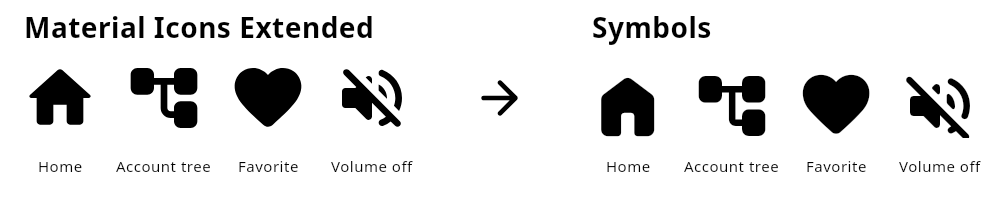
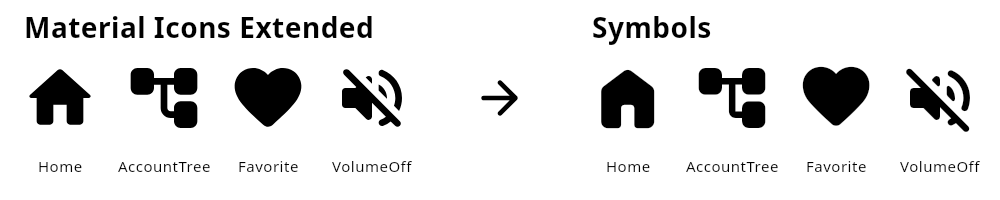
Prevent clipped demo glyphs and synchronize axis sequences

diff --git a/tools/readme-media/src/main/kotlin/ReadmeMedia.kt b/tools/readme-media/src/main/kotlin/ReadmeMedia.kt
@@ -47,12 +47,14 @@ private const val Height = 200
 private const val FrameNanos = 16_666_667L
 private const val SettledHoldFrames = 90 // 1.5 seconds after the spring finishes, at 60 Hz.
 
-private data class Example(val name: String, val legacy: ImageVector, val codePoint: Int)
+private data class Example(val legacy: ImageVector, val codePoint: Int) {
+    val name: String get() = legacy.name.substringAfterLast('.')
+}
 private val Examples = listOf(
-    Example("Home", LegacyIcons.Rounded.Home, Symbols.Material.Home.codePoint),
-    Example("Account tree", LegacyIcons.Rounded.AccountTree, Symbols.Material.AccountTree.codePoint),
-    Example("Favorite", LegacyIcons.Rounded.Favorite, Symbols.Material.Favorite.codePoint),
-    Example("Volume off", LegacyIcons.Rounded.VolumeOff, Symbols.Material.VolumeOff.codePoint),
+    Example(LegacyIcons.Rounded.Home, Symbols.Material.Home.codePoint),
+    Example(LegacyIcons.Rounded.AccountTree, Symbols.Material.AccountTree.codePoint),
+    Example(LegacyIcons.Rounded.Favorite, Symbols.Material.Favorite.codePoint),
+    Example(LegacyIcons.Rounded.VolumeOff, Symbols.Material.VolumeOff.codePoint),
 )
 
 private data class Axes(
@@ -63,8 +65,9 @@ private data class Axes(
 )
 
 private val AxisSegments = listOf(
-    Axes(weight = 700f),
     Axes(weight = 100f),
+    Axes(),
+    Axes(weight = 700f),
     Axes(),
     Axes(opticalSize = 20f),
     Axes(),
@@ -75,14 +78,20 @@ private val AxisSegments = listOf(
     Axes(grade = 200f),
     Axes(),
 )
-private val ComparisonStates = listOf(Axes(fill = 1f)) +
-    AxisSegments.map { it.copy(fill = 1f) } + listOf(Axes()) +
-    AxisSegments + listOf(Axes(fill = 1f))
+private val ComparisonStates = buildList {
+    var fill = 1f
+    add(Axes(fill = fill))
+    for (axes in AxisSegments) {
+        add(axes.copy(fill = fill))
+        fill = 1f - fill
+        add(axes.copy(fill = fill))
+    }
+}
 private val VariableStates = listOf(
     Axes(),
-    Axes(fill = 1f, weight = 700f, grade = 200f, opticalSize = 48f),
-    Axes(),
     Axes(fill = 1f, weight = 100f, grade = -50f, opticalSize = 20f),
+    Axes(),
+    Axes(fill = 1f, weight = 700f, grade = 200f, opticalSize = 48f),
     Axes(),
 )
 
@@ -117,12 +126,19 @@ private fun CenteredLabel(text: String, x: Int, y: Int, width: Int, size: Int, b
 }
 
 @Composable
-private fun Glyph(codePoint: Int, x: Int, y: Int, size: Int, axes: List<State<Float>>, onlyAxis: Int? = null) {
+private fun Glyph(
+    codePoint: Int, x: Int, y: Int, size: Int, axes: List<State<Float>>,
+    onlyAxis: Int? = null, extraDrawingSpace: Int = 0,
+) {
+    // The pinned font's line height is 1.2 em. Give it a 1.25 em drawing box,
+    // centered on the same slot, while keeping the requested font size unchanged.
+    val padding = size / 8 + extraDrawingSpace
     SymbolFontIcon(
         codePoint = codePoint,
         font = Font,
         contentDescription = null,
-        modifier = Modifier.offset(x.dp, y.dp),
+        modifier = Modifier.offset((x - padding).dp, (y - padding).dp)
+            .size((size + padding * 2).dp),
         size = size.dp,
         tint = Color.Black,
         fontSettings = {
@@ -138,7 +154,7 @@ private fun Glyph(codePoint: Int, x: Int, y: Int, size: Int, axes: List<State<Fl
 }
 
 @Composable
-private fun Comparison(target: Axes, finishedListener: (Float) -> Unit) {
+private fun Comparison(target: Axes, extraDrawingSpace: Int = 0, finishedListener: (Float) -> Unit) {
     val axes = animatedAxes(target, finishedListener)
     Box(Modifier.size(Width.dp, Height.dp).background(Color.White)) {
         Label("Material Icons Extended", 24, 8, 28, bold = true)
@@ -146,7 +162,7 @@ private fun Comparison(target: Axes, finishedListener: (Float) -> Unit) {
         Icon(Icons.Rounded.ArrowForward, null, Modifier.offset(472.dp, 70.dp).size(56.dp), tint = Color.Black)
         Examples.forEachIndexed { i, icon ->
             Icon(icon.legacy, null, Modifier.offset((20 + i * 104).dp, 58.dp).size(80.dp), tint = Color.Black)
-            Glyph(icon.codePoint, 588 + i * 104, 58, 80, axes)
+            Glyph(icon.codePoint, 588 + i * 104, 58, 80, axes, extraDrawingSpace = extraDrawingSpace)
             listOf(10, 578).forEach { start ->
                 CenteredLabel(icon.name, start + i * 104, 150, 100, 15)
             }
@@ -155,7 +171,7 @@ private fun Comparison(target: Axes, finishedListener: (Float) -> Unit) {
 }
 
 @Composable
-private fun VariableFonts(target: Axes) {
+private fun VariableFonts(target: Axes, extraDrawingSpace: Int = 0) {
     val axes = animatedAxes(target)
     Box(Modifier.size(Width.dp, Height.dp).background(Color.White)) {
         val labels = listOf("Fill", "Weight", "Grade", "Optical size")
@@ -164,7 +180,7 @@ private fun VariableFonts(target: Axes) {
         for (i in 0..3) {
             val x = i * 250
             CenteredLabel(labels[i], x, 4, 250, 24, bold = true)
-            Glyph(codepoints[i].codePoint, x + 73, 44, 104, axes, onlyAxis = i)
+            Glyph(codepoints[i].codePoint, x + 73, 44, 104, axes, onlyAxis = i, extraDrawingSpace = extraDrawingSpace)
             CenteredLabel(ranges[i], x, 160, 250, 18)
         }
     }
@@ -206,17 +222,40 @@ private suspend fun capture(name: String, comparison: Boolean) {
             if (comparison) Comparison(target.value) { animationFinished = true } else VariableFonts(target.value)
         }
     }
+    // Same released renderer and font size, with a roomier layout to reveal internal clipping.
+    val reference = ImageComposeScene(Width, Height, coroutineContext = Dispatchers.Unconfined) {
+        MaterialExpressiveTheme {
+            if (comparison) Comparison(target.value, extraDrawingSpace = 20) {}
+            else VariableFonts(target.value, extraDrawingSpace = 20)
+        }
+    }
     var time = 0L
+    var referencePng = byteArrayOf()
+    var verifyClipping = false
     fun frame(): ByteArray {
         Snapshot.sendApplyNotifications()
-        return scene.render(time).use { it.png() }.also { time += FrameNanos }
+        val png = scene.render(time).use { it.png() }
+        referencePng = reference.render(time).use { it.png() }
+        if (verifyClipping && !png.contentEquals(referencePng)) {
+            val failure = File("build/clipping-check").apply { mkdirs() }
+            File(failure, "$name-clipped.png").writeBytes(png)
+            File(failure, "$name-unclipped-reference.png").writeBytes(referencePng)
+            error("Glyph rendering differs with additional drawing space at $time ns ($name)")
+        }
+        time += FrameNanos
+        return png
     }
     try {
         // Font loading is asynchronous. Never record an empty first frame or guess a sleep time.
         withTimeout(20_000) {
-            while (!glyphsReady(frame(), comparison)) delay(5)
+            while (true) {
+                val png = frame()
+                if (glyphsReady(png, comparison) && glyphsReady(referencePng, comparison)) break
+                delay(5)
+            }
         }
         repeat(5) { frame() }
+        verifyClipping = true
         check(states.last() == initial)
         var frameCount = 0
         fun recordFrame() {
@@ -246,14 +285,17 @@ private suspend fun capture(name: String, comparison: Boolean) {
         }
         File(output, "states.csv").writeText(timeline.joinToString("\n"))
         println("Captured $name: ${frameCount / 2} frames, ${frameCount / 60.0} seconds, 30 fps")
+        println("Verified all $frameCount frames against the unclipped reference")
     } finally {
         scene.close()
+        reference.close()
     }
 }
 
 fun main() = runBlocking {
     // Compile-check the migration-first README call against the released vector artifact too.
     check(Icons.Rounded.Home.viewportWidth > 0)
+    check(Examples.map { it.name } == listOf("Home", "AccountTree", "Favorite", "VolumeOff"))
     capture("icons-comparison", comparison = true)
     capture("variable-fonts", comparison = false)
 }

diff --git a/tools/readme-media/encode.py b/tools/readme-media/encode.py
@@ -35,12 +35,12 @@ def encode(name: str) -> None:
         assert all(ImageChops.difference(first.crop(left), frame.crop(left)).getbbox() is None for frame in frames), "Legacy side must remain still"
         crops = [(588 + i * 104, 58, 668 + i * 104, 138) for i in range(4)]
         expected = [
-            (1, 400, 0, 24), (1, 700, 0, 24), (1, 100, 0, 24), (1, 400, 0, 24),
-            (1, 400, 0, 20), (1, 400, 0, 24), (1, 400, 0, 48), (1, 400, 0, 24),
-            (1, 400, -50, 24), (1, 400, 0, 24), (1, 400, 200, 24), (1, 400, 0, 24),
-            (0, 400, 0, 24), (0, 700, 0, 24), (0, 100, 0, 24), (0, 400, 0, 24),
-            (0, 400, 0, 20), (0, 400, 0, 24), (0, 400, 0, 48), (0, 400, 0, 24),
-            (0, 400, -50, 24), (0, 400, 0, 24), (0, 400, 200, 24), (0, 400, 0, 24),
+            (1, 400, 0, 24), (1, 100, 0, 24), (0, 100, 0, 24), (0, 400, 0, 24),
+            (1, 400, 0, 24), (1, 700, 0, 24), (0, 700, 0, 24), (0, 400, 0, 24),
+            (1, 400, 0, 24), (1, 400, 0, 20), (0, 400, 0, 20), (0, 400, 0, 24),
+            (1, 400, 0, 24), (1, 400, 0, 48), (0, 400, 0, 48), (0, 400, 0, 24),
+            (1, 400, 0, 24), (1, 400, -50, 24), (0, 400, -50, 24), (0, 400, 0, 24),
+            (1, 400, 0, 24), (1, 400, 200, 24), (0, 400, 200, 24), (0, 400, 0, 24),
             (1, 400, 0, 24),
         ]
         assert len(states) == len(expected)
@@ -59,14 +59,14 @@ def encode(name: str) -> None:
             previous_end = end
         changes = [[a != b for a, b in zip(before, after)] for before, after in zip(expected, expected[1:])]
         assert all(sum(change) == 1 for change in changes), "Only one axis may change at a time"
-        assert [sum(change[axis] for change in changes) for axis in range(4)] == [2, 6, 8, 8]
+        assert [sum(change[axis] for change in changes) for axis in range(4)] == [12, 4, 4, 4]
         # Every prescribed transition must visibly reach the renderer before the next one.
         assert all(ImageChops.difference(a, b).getbbox() for a, b in zip(settled, settled[1:])), "Missing visible transition"
     else:
         crops = [(73 + i * 250, 44, 177 + i * 250, 148) for i in range(4)]
         expected = [
-            (0, 400, 0, 24), (1, 700, 200, 48), (0, 400, 0, 24),
-            (1, 100, -50, 20), (0, 400, 0, 24),
+            (0, 400, 0, 24), (1, 100, -50, 20), (0, 400, 0, 24),
+            (1, 700, 200, 48), (0, 400, 0, 24),
         ]
         assert len(states) == len(expected)
         for index, (state, axes) in enumerate(zip(states, expected)):

diff --git a/tools/readme-media/README.md b/tools/readme-media/README.md
@@ -29,37 +29,47 @@ waits for visible glyphs before recording; it does not assume a font-loading del
 
 Both compact layouts use black glyphs and text on white, without card boxes,
 subtitles, or footer labels. The comparison retains its main titles and icon
-names, with an actual Rounded `ArrowForward` ImageVector between the two sides. Material Icons
-Extended 1.7.3 Rounded vectors stay fixed on the left through standard `Icon`.
+names: `Home`, `AccountTree`, `Favorite`, and `VolumeOff`. An actual Rounded
+`ArrowForward` ImageVector sits between the two sides. Material Icons Extended
+1.7.3 Rounded vectors stay fixed on the left through standard `Icon`.
+Labels use the legacy vector's `name.substringAfterLast('.')`, matching the
+rendered reference names.
 On the right, Symbols' live Rounded font animates fill, weight, optical size,
-and grade at the same layout size and tint. It begins and ends at
+and grade at the same requested icon size and tint. It begins and ends at
 `FILL=1, wght=400, GRAD=0, opsz=24`.
 
-The comparison runs these three segments in order at `FILL=1`, switches to
-`FILL=0`, repeats all three, then returns to `FILL=1` at the default axes.
-Each transition changes exactly one axis; the other axes retain their values.
+Starting filled at the default axes, the comparison runs these three segments
+in order. After each of the 12 axis steps, it toggles fill before advancing to
+the next axis step. Each transition changes exactly one axis; the other axes
+retain their values. The final fill toggle returns to `FILL=1` at the defaults.
 
 | Segment | Axis targets |
 | --- | --- |
-| Weight | `400 → 700 → 100 → 400` |
+| Weight | `400 → 100 → 400 → 700 → 400` |
 | Optical size | `24 → 20 → 24 → 48 → 24` |
 | Grade | `0 → -50 → 0 → 200 → 0` |
 
-The 25 targets produce 24 transitions: two fill changes, six weight changes,
-eight optical-size changes, and eight grade changes. The initial state holds
-for 1.5 seconds. Every transition then waits for its expressive spring to finish
-and holds the settled state for another 1.5 seconds before advancing. The
-measured comparison lasts approximately 52.37 seconds: 1,571 captured frames
-at 30 fps.
+The 25 targets produce 24 transitions: 12 fill changes and four changes each
+to weight, optical size, and grade. The initial state holds for 1.5 seconds.
+Every transition then waits for its expressive spring to finish and holds the
+settled state for another 1.5 seconds before advancing. The measured comparison
+lasts 49.633 seconds: 1,489 exported frames at 30 fps.
 
 `states.csv` records each target's start (`frame`), completion-aligned hold
 start (`settledFrame`), and end (`endFrame`) as native 60 Hz frame indices.
 The encoder verifies that all 25 holds span 90 native frames (1.5 seconds) with
 identical pixels throughout, and that all 24 transitions are visible.
 
+Capture glyphs use 1.25-em drawing boxes, adding `size / 8` on each edge for the
+pinned Rounded font's 1.2-em line height. Font size stays unchanged; this adjusts
+only the capture layout, not the released renderer. The clipping guard rejected
+the original square bounds. The padded capture then matched a reference with
+another 20 pixels on each edge across all 2,978 comparison and 480 variable-demo
+native frames, verifying every frame against roomier drawing bounds.
+
 The variable-font image has four columns from one font, isolating fill, weight,
 grade, and optical size. Weight, grade, and optical size follow
-medium → large → medium → small → medium. Fill alternates 0 → 1 → 0 → 1 → 0.
+medium → small → medium → large → medium. Fill alternates 0 → 1 → 0 → 1 → 0.
 Five targets held for 1.6 seconds each make an eight-second loop.
 
 | Axis | Small | Medium | Large |
@@ -78,10 +88,10 @@ Apache 2.0 terms are in [third-party notices](../../THIRD_PARTY_NOTICES.md).
 
 Only the two final APNGs and their still alternatives in `docs/media` are tracked.
 The `.png` extension is intentional: APNG remains a standard PNG with a readable
-first frame. The variable-font demo remains eight seconds. Each animation plays
-twice and ends on its initial state. The encoder verifies motion in every
-icon/axis, a completely static legacy panel, seamless loop endpoints, decoded
-duration and repeat count. Comparison checks also cover segment order,
+first frame. The variable-font demo remains eight seconds (240 exported frames).
+Each animation plays twice and ends on its initial state. The encoder verifies
+motion in every icon/axis, a completely static legacy panel, seamless loop
+endpoints, decoded duration and repeat count. Comparison checks cover segment order,
 single-axis transitions, spring completion, and the settled holds. Frames and
 Gradle outputs remain under ignored `build/`. Platform fonts may change text
 rasterization across operating systems; regenerate both assets on the same host.

diff --git a/README.md b/README.md
@@ -14,9 +14,9 @@ Shrinkable vectors and Android drawables that help keep APKs small.
 
 The left side uses fixed classic Material Icons Extended vectors through
 standard `Icon`; the right uses the live Rounded Material Symbols font. Both
-start filled. Symbols varies weight, optical size, and grade in filled and
-unfilled passes, changing one axis at a time and pausing after each spring
-finishes. It begins and ends at `FILL=1, wght=400, GRAD=0, opsz=24`.
+start filled. Symbols varies weight, optical size, and grade, toggling fill
+after every axis step. Each transition changes one axis and pauses after its
+spring finishes. It begins and ends at `FILL=1, wght=400, GRAD=0, opsz=24`.
 
 Replace `material-icons-extended` while keeping Compose's standard `Icon`.
 Add a pack and use typed names—without per-icon downloads or hand-maintained
@@ -110,7 +110,7 @@ font, then use your Material 3 motion scheme:
 [Still image](docs/media/variable-fonts-still.png)
 
 The four columns use one Rounded variable font, varying one axis at a time.
-Weight, grade, and optical size follow medium → large → medium → small → medium;
+Weight, grade, and optical size follow medium → small → medium → large → medium;
 fill alternates 0 → 1 → 0 → 1 → 0. Each loop lasts eight seconds, with numeric
 axis labels. Optical size adjusts glyph detail within a fixed layout size.
 
